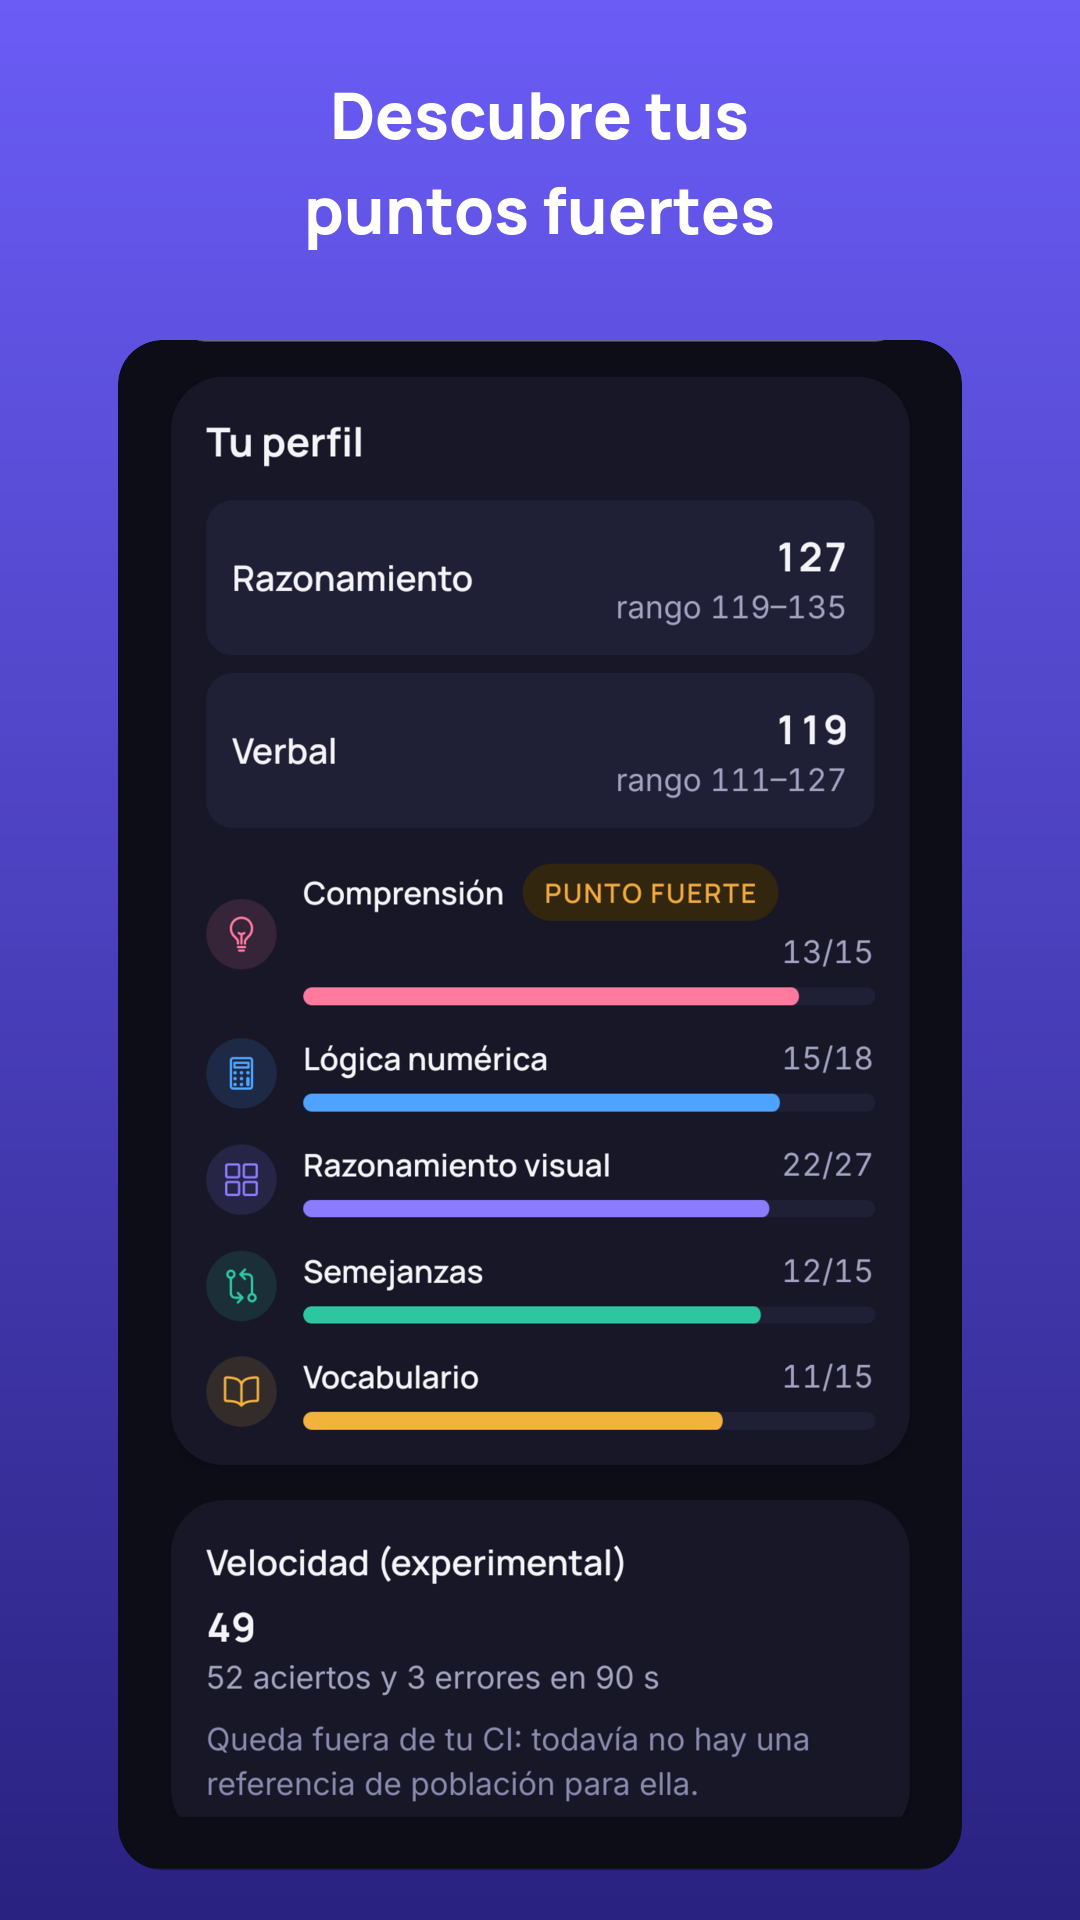
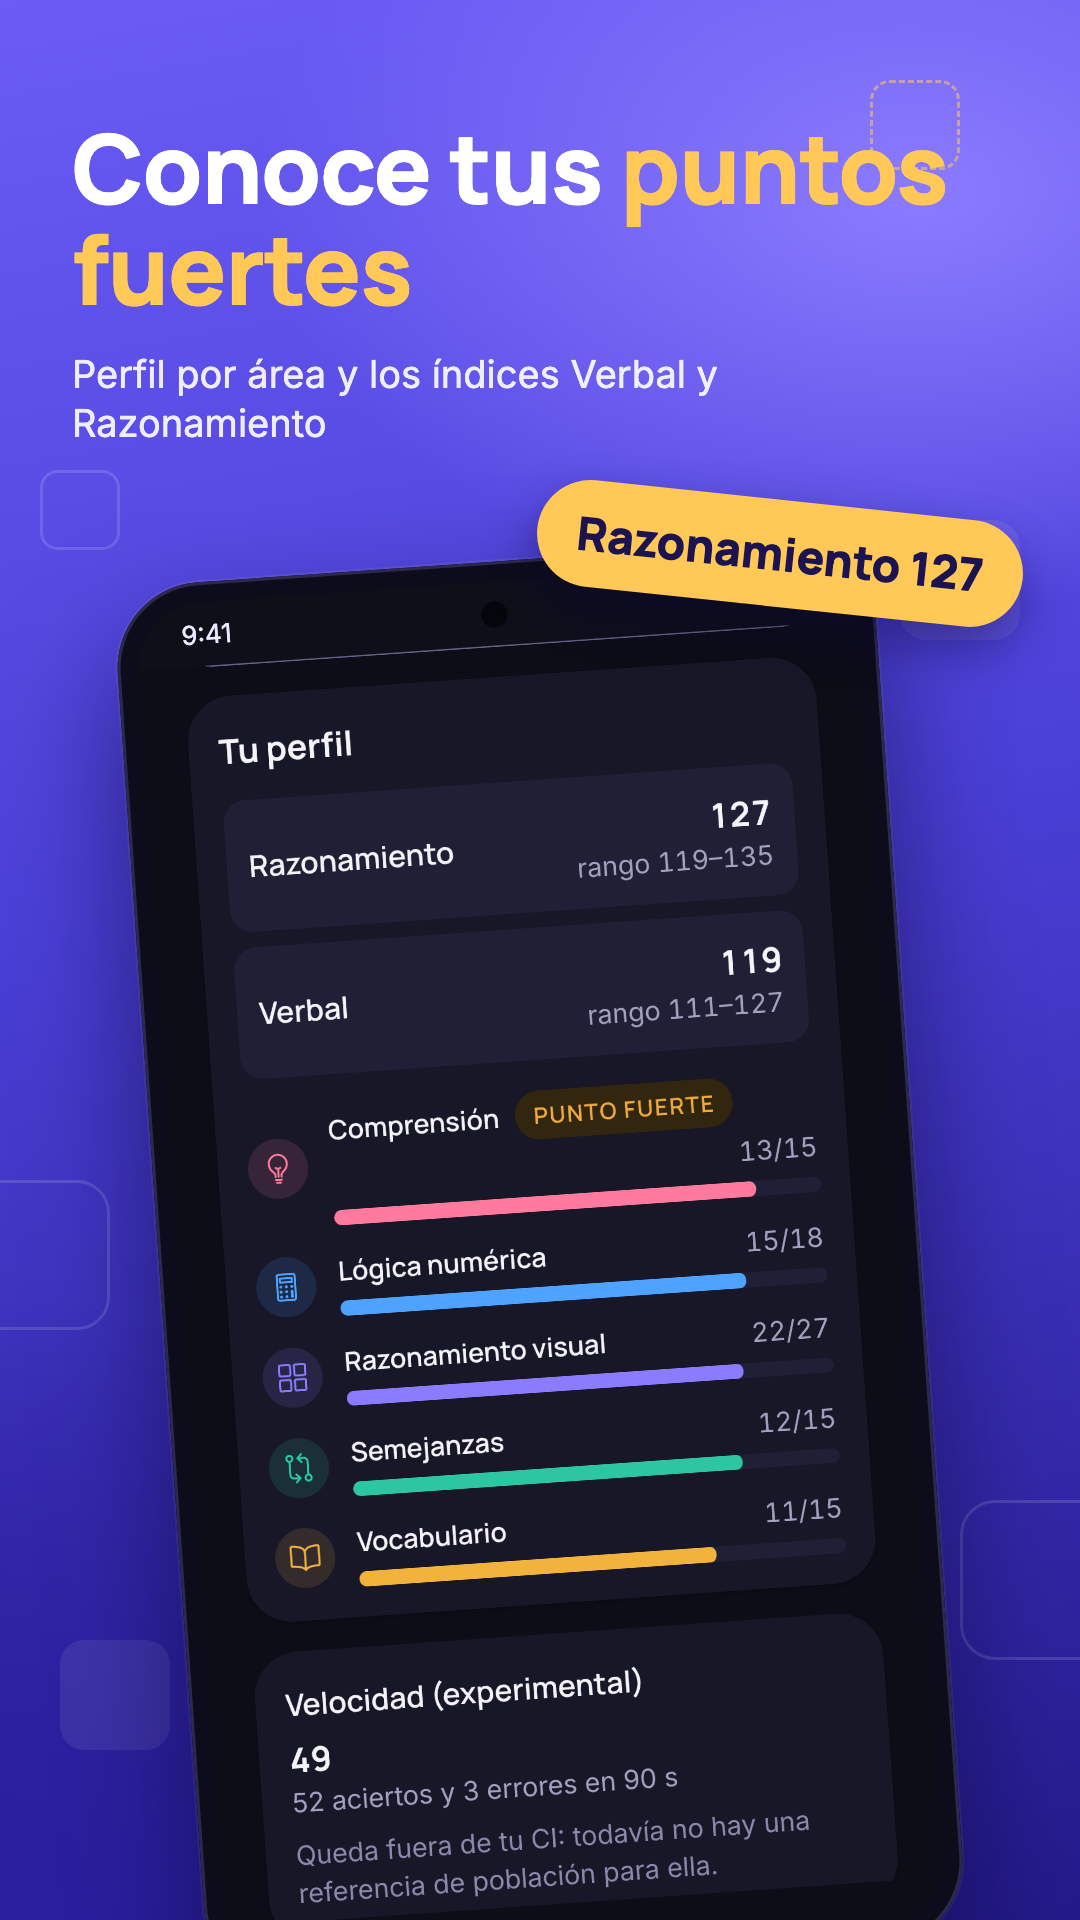
store: marketing screenshots and feature graphics in three languages
The listing images are now designed rather than captioned: a headline with
one word in the accent colour, a supporting line, the shot in a tilted
phone frame and a floating badge, on the brand gradient with the 3x3
motif. scripts/store/marketing.py lays each out in HTML and renders it in
headless Chrome with the app's fonts: 18 screenshots at 1080x1920 and a
1024x500 feature graphic per language, RGB without alpha. The copy carries
no price, ranking or duration words. compose.py, which only captioned the
shots, is gone.

diff --git a/scripts/store/marketing.py b/scripts/store/marketing.py
@@ -1,0 +1,190 @@
+"""Renders the store's marketing screenshots and feature graphic in headless Chrome.
+
+usage: marketing.py <raw-dir> <out-dir>
+
+<raw-dir>/<lang>/<n>-<name>.png are the phone shots from
+scripts/device/store_shots.py. For each language this writes, under
+<out-dir>/<play-locale>/:
+  1-result.png … 6-settings.png   1080x1920: a headline with one word in the
+                                   accent colour, a supporting line, the shot
+                                   in a tilted phone, a floating badge, on the
+                                   brand gradient with the 3x3 motif
+  feature-graphic.png              1024x500
+All RGB without alpha. Copy carries no price, ranking or duration words
+(decision D5; Play's listing rules ban "free", "best", "#1" in images).
+Fonts are the app's (Manrope, Inter) from node_modules.
+"""
+import html
+import os
+import subprocess
+import sys
+import tempfile
+
+ROOT = os.path.dirname(os.path.dirname(os.path.dirname(os.path.abspath(__file__))))
+FONTS = os.path.join(ROOT, "node_modules", "@expo-google-fonts")
+ICON = os.path.join(ROOT, "assets", "images", "brand-mark.png")
+CHROME = "/Applications/Google Chrome.app/Contents/MacOS/Google Chrome"
+LOCALES = {"pt": "pt-BR", "en": "en-US", "es": "es-419"}
+# The app's area in an A15 shot (1080x2340): below the status bar, above the banner.
+APP_TOP, APP_BOTTOM = 80, 2037
+
+# (shot, headline with *accent*, supporting line, badge, tilt in degrees)
+SLIDES = {
+    "pt": [
+        ("1-result", "Descubra seu *QI*", "Resultado completo, com a faixa provável e a curva da população", "124 · Superior", -4),
+        ("2-pattern", "Desafie seu *raciocínio*", "Matrizes visuais, lógica numérica, semelhanças e vocabulário", "5 áreas", 4),
+        ("3-profile", "Conheça seus *pontos fortes*", "Perfil por área e os índices Verbal e Raciocínio", "Raciocínio 127", -4),
+        ("4-history", "Acompanhe sua *evolução*", "Gráfico dos seus testes e o seu recorde pessoal", "Recorde 124", 4),
+        ("5-home", "*3 modos* de teste", "Rápido com 20, Normal com 40 ou Detalhado com 90 questões", "20 · 40 · 90", -4),
+        ("6-settings", "Do seu *jeito*", "Tema escuro, três idiomas e nenhum cadastro", "Sem cadastro", 4),
+    ],
+    "en": [
+        ("1-result", "Discover your *IQ*", "A full result, with its likely range and the population curve", "124 · Superior", -4),
+        ("2-pattern", "Challenge your *reasoning*", "Visual matrices, number logic, similarities and vocabulary", "5 areas", 4),
+        ("3-profile", "Find your *strengths*", "Profile by area plus the Verbal and Reasoning indices", "Reasoning 127", -4),
+        ("4-history", "Track your *progress*", "A chart of your tests and your personal record", "Record 124", 4),
+        ("5-home", "*3 test* modes", "Quick with 20, Normal with 40 or Detailed with 90 questions", "20 · 40 · 90", -4),
+        ("6-settings", "Your *way*", "Dark theme, three languages and no sign-up", "No sign-up", 4),
+    ],
+    "es": [
+        ("1-result", "Descubre tu *CI*", "Resultado completo, con su rango probable y la curva de la población", "124 · Superior", -4),
+        ("2-pattern", "Desafía tu *razonamiento*", "Matrices visuales, lógica numérica, semejanzas y vocabulario", "5 áreas", 4),
+        ("3-profile", "Conoce tus *puntos fuertes*", "Perfil por área y los índices Verbal y Razonamiento", "Razonamiento 127", -4),
+        ("4-history", "Sigue tu *evolución*", "Gráfico de tus tests y tu récord personal", "Récord 124", 4),
+        ("5-home", "*3 modos* de test", "Rápido con 20, Normal con 40 o Detallado con 90 preguntas", "20 · 40 · 90", -4),
+        ("6-settings", "A tu *manera*", "Tema oscuro, tres idiomas y sin registro", "Sin registro", 4),
+    ],
+}
+FEATURE = {
+    "pt": ("Descubra seu *QI*", "Raciocínio visual, lógica e vocabulário"),
+    "en": ("Discover your *IQ*", "Visual reasoning, logic and vocabulary"),
+    "es": ("Descubre tu *CI*", "Razonamiento visual, lógica y vocabulario"),
+}
+
+CSS = """
+@font-face { font-family: Manrope; font-weight: 800; src: url("file://%(fonts)s/manrope/800ExtraBold/Manrope_800ExtraBold.ttf"); }
+@font-face { font-family: Manrope; font-weight: 700; src: url("file://%(fonts)s/manrope/700Bold/Manrope_700Bold.ttf"); }
+@font-face { font-family: Inter; font-weight: 400; src: url("file://%(fonts)s/inter/400Regular/Inter_400Regular.ttf"); }
+* { margin: 0; padding: 0; box-sizing: border-box; }
+html, body { width: %(w)dpx; height: %(h)dpx; overflow: hidden; }
+body { position: relative; font-family: Inter; color: #fff;
+  background: radial-gradient(1100px 700px at 85%% 10%%, #8B7BFF 0%%, rgba(139,123,255,0) 60%%),
+              radial-gradient(900px 900px at 0%% 100%%, #2A1E9E 0%%, rgba(42,30,158,0) 70%%),
+              linear-gradient(170deg, #6A5CF5 0%%, #4A3FD6 45%%, #241A8A 100%%); }
+.tile { position: absolute; border-radius: 22%%; border: 3px solid rgba(255,255,255,.14); }
+.tile.fill { background: rgba(255,255,255,.08); border: none; }
+.tile.q { border: 3px dashed rgba(255,200,87,.55); }
+h1 { font-family: Manrope; font-weight: 800; letter-spacing: -1px; line-height: 1.05; }
+h1 em { font-style: normal; color: #FFC857; }
+.sub { font-family: Inter; opacity: .9; line-height: 1.3; }
+.phone { position: absolute; background: #0d0c1a;
+  box-shadow: 0 60px 120px rgba(10,6,50,.55), 0 0 0 3px #2c2a4a inset, 0 0 0 2px rgba(255,255,255,.08); }
+.screen { position: relative; overflow: hidden; background: #0f0f1a; }
+.screen img { display: block; width: 100%%; }
+.bar { display: flex; align-items: center; justify-content: space-between; font-family: Inter; color: #e9e8ff; }
+.bar .dots { display: flex; align-items: center; }
+.bar .dots i, .bar .dots b { display: block; background: #e9e8ff; opacity: .9; }
+.bar .dots b { border-radius: 50%%; }
+.punch { position: absolute; left: 50%%; border-radius: 50%%; background: #05050c; }
+.badge { position: absolute; font-family: Manrope; font-weight: 800; color: #1c1450; background: #FFC857;
+  border-radius: 999px; box-shadow: 0 24px 48px rgba(10,6,50,.4); white-space: nowrap; }
+"""
+
+
+def headline(text):
+    parts = html.escape(text).split("*")
+    return "".join(f"<em>{p}</em>" if i % 2 else p for i, p in enumerate(parts))
+
+
+def motif(width, height, cells):
+    out = []
+    for x, y, size, kind in cells:
+        out.append(f'<div class="tile {kind}" style="left:{x}px;top:{y}px;width:{size}px;height:{size}px"></div>')
+    return "".join(out)
+
+
+def phone(shot, width, left, top, tilt):
+    """A phone frame around the shot; every measure scales with the width (760 px is the reference)."""
+    k = width / 760
+    pad, inner = 20 * k, width - 40 * k
+    dot, gap = 14 * k, 10 * k
+    return (f'<div class="phone" style="left:{left}px;top:{top}px;width:{width}px;padding:{pad}px;'
+            f'border-radius:{86 * k}px;transform:rotate({tilt}deg)">'
+            f'<div class="screen" style="border-radius:{68 * k}px">'
+            f'<div class="punch" style="top:{20 * k}px;width:{26 * k}px;height:{26 * k}px;margin-left:{-13 * k}px"></div>'
+            f'<div class="bar" style="height:{64 * k}px;padding:0 {46 * k}px;font-size:{26 * k}px"><span>9:41</span>'
+            f'<span class="dots" style="gap:{gap}px"><b style="width:{dot}px;height:{dot}px"></b>'
+            f'<b style="width:{dot}px;height:{dot}px"></b>'
+            f'<i style="width:{26 * k}px;height:{dot}px;border-radius:{4 * k}px"></i></span></div>'
+            f'<img src="file://{shot}" style="width:{inner}px"></div></div>')
+
+
+def slide_html(shot, title, sub, badge, tilt):
+    cells = [(-40, 1180, 150, ""), (900, 520, 120, "fill"), (960, 1500, 160, ""), (60, 1640, 110, "fill"),
+             (870, 80, 90, "q"), (40, 470, 80, "")]
+    return (f'<html><head><style>{CSS % {"fonts": FONTS, "w": 1080, "h": 1920}}'
+            f'h1{{font-size:96px;margin:118px 72px 0}} .sub{{font-size:38px;margin:30px 72px 0;max-width:900px}}'
+            f'.badge{{font-size:46px;padding:22px 40px}}</style></head><body>'
+            f'{motif(1080, 1920, cells)}'
+            f'<h1>{headline(title)}</h1><p class="sub">{html.escape(sub)}</p>'
+            f'{phone(shot, 760, 160, 560, tilt)}'
+            # Over the phone's upper corner, where the screen is plain: the
+            # first version sat on the result's chip and percentile line.
+            f'<div class="badge" style="top:{500 if tilt < 0 else 520}px;{"right" if tilt < 0 else "left"}:56px;'
+            f'transform:rotate({tilt * -1.5}deg)">{html.escape(badge)}</div>'
+            f'</body></html>')
+
+
+def feature_html(shot, title, sub):
+    cells = [(560, -30, 110, ""), (930, 360, 90, "fill"), (520, 380, 70, "q"), (20, 400, 60, "fill")]
+    return (f'<html><head><style>{CSS % {"fonts": FONTS, "w": 1024, "h": 500}}'
+            f'h1{{font-size:78px;position:absolute;left:64px;top:150px;width:520px}}'
+            f'.sub{{font-size:28px;position:absolute;left:66px;top:330px;width:500px}}'
+            f'.icon{{position:absolute;left:64px;top:56px;width:72px;height:72px;border-radius:18px}}'
+            f'</style></head><body>{motif(1024, 500, cells)}'
+            f'<img class="icon" src="file://{ICON}">'
+            f'<h1>{headline(title)}</h1><p class="sub">{html.escape(sub)}</p>'
+            f'{phone(shot, 330, 650, 40, -6)}</body></html>')
+
+
+def render(page, width, height, out):
+    with tempfile.TemporaryDirectory() as folder:
+        source = os.path.join(folder, "page.html")
+        open(source, "w", encoding="utf-8").write(page)
+        shot = os.path.join(folder, "shot.png")
+        subprocess.run([CHROME, "--headless=new", "--disable-gpu", "--hide-scrollbars", "--force-device-scale-factor=1",
+                        "--allow-file-access-from-files", "--virtual-time-budget=4000",
+                        f"--window-size={width},{height}", f"--screenshot={shot}", f"file://{source}"],
+                       capture_output=True, check=True)
+        subprocess.run(["magick", shot, "-crop", f"{width}x{height}+0+0", "+repage", "-alpha", "off",
+                        "-define", "png:color-type=2", out], check=True)
+
+
+def crop_app_area(raw, folder):
+    out = os.path.join(folder, os.path.basename(os.path.dirname(raw)) + "-" + os.path.basename(raw))
+    subprocess.run(["magick", raw, "-crop", f"1080x{APP_BOTTOM - APP_TOP}+0+{APP_TOP}", "+repage", out], check=True)
+    return out
+
+
+def main():
+    if len(sys.argv) != 3:
+        sys.exit(__doc__)
+    raw_dir, out_dir = sys.argv[1:]
+    work = tempfile.mkdtemp(prefix="qi-marketing-")
+    count = 0
+    for lang, slides in SLIDES.items():
+        target = os.path.join(out_dir, LOCALES[lang])
+        os.makedirs(target, exist_ok=True)
+        for name, title, sub, badge, tilt in slides:
+            shot = crop_app_area(os.path.join(raw_dir, lang, f"{name}.png"), work)
+            render(slide_html(shot, title, sub, badge, tilt), 1080, 1920, os.path.join(target, f"{name}.png"))
+            count += 1
+        title, sub = FEATURE[lang]
+        shot = crop_app_area(os.path.join(raw_dir, lang, "1-result.png"), work)
+        render(feature_html(shot, title, sub), 1024, 500, os.path.join(target, "feature-graphic.png"))
+        count += 1
+    print(f"{count} images in {out_dir}")
+
+
+if __name__ == "__main__":
+    main()

diff --git a/scripts/store/README.md b/scripts/store/README.md
@@ -1,19 +1,26 @@
-# Store screenshots
+# Store images
 
-Six screenshots per language (pt-BR, en-US, es-419), 1080×1920, made from a
-preview (release) build on the Galaxy A15 so no dev-client button shows.
+Six screenshots per language (pt-BR, en-US, es-419), 1080×1920, and a
+1024×500 feature graphic per language, made from a preview (release) build
+on the Galaxy A15 so no dev-client button shows.
 
-| file | screen | pt-BR caption |
-|---|---|---|
-| `1-result` | Results revealing a Detalhado result | Seu QI estimado, com a faixa provável |
-| `2-pattern` | a pattern question | Matrizes, lógica e vocabulário |
-| `3-profile` | Results scrolled to the indices and areas | Veja seus pontos fortes |
-| `4-history` | History | Acompanhe sua evolução |
-| `5-home` | Home with the record and the mode chooser | Três modos: 20, 40 ou 90 questões |
-| `6-settings` | Settings | Tema escuro e três idiomas |
+Each screenshot is a headline with one word in the accent colour, a
+supporting line, the shot inside a tilted phone frame and a floating badge,
+on the brand gradient with the 3×3 motif (`marketing.py`, rendered in
+headless Chrome with the app's fonts).
 
-No price, ranking or duration words in the captions (decision D5; the old
-`ASO.md` plan said "Grátis" and "em 10 minutos").
+| file | screen | pt-BR headline | badge |
+|---|---|---|---|
+| `1-result` | Results revealing a Detalhado result | Descubra seu **QI** | 124 · Superior |
+| `2-pattern` | a pattern question | Desafie seu **raciocínio** | 5 áreas |
+| `3-profile` | Results scrolled to the indices and areas | Conheça seus **pontos fortes** | Raciocínio 127 |
+| `4-history` | History | Acompanhe sua **evolução** | Recorde 124 |
+| `5-home` | Home with the record and the mode chooser | **3 modos** de teste | 20 · 40 · 90 |
+| `6-settings` | Settings | Do seu **jeito** | Sem cadastro |
+
+No price, ranking or duration words (decision D5; Play's listing rules ban
+"free", "best", "#1" in images; the old `ASO.md` plan said "Grátis" and "em
+10 minutos").
 
 ## Steps
 
@@ -24,9 +31,9 @@ No price, ranking or duration words in the captions (decision D5; the old
    data stays).
 3. `python3 -I scripts/device/store_shots.py <raw>` (it sets `QI_RELEASE=1`):
    switches the language in Settings and saves the six raw shots per language.
-4. `python3 -I scripts/store/compose.py <raw> <out>`: caption on the brand
-   gradient, the app's area (no status bar, no banner) below it, RGB without
-   alpha.
+4. `python3 -I scripts/store/marketing.py <raw> <out>`: the 18 screenshots and
+   3 feature graphics, RGB without alpha; copy them into `store/screenshots/`
+   and `store/feature-graphic-<locale>.png`.
 5. `adb install -r <dev.apk>` and `python3 -I scripts/store/showcase.py restore
    <backup>`.
 

diff --git a/store/CHECKLIST.md b/store/CHECKLIST.md
@@ -87,7 +87,7 @@ O ícone é a grade 3×3 com a célula faltando, do prompt principal de
 - [x] `splash-icon.png` coerente com o ícone
 - [x] Feature graphic 1024×500 — `feature-graphic-pt-BR.png`, `-es-419`, `-en-US`,
       mais `feature-graphic-base.png` sem texto, para outros idiomas
-- [x] 6 capturas por idioma, com legendas — `store/screenshots/{pt-BR,en-US,es-419}/`, 1080×1920 RGB, do build preview no A15 (como refazer: `scripts/store/README.md`)
+- [x] 6 capturas por idioma, com título, aparelho e selo — `store/screenshots/{pt-BR,en-US,es-419}/`, 1080×1920 RGB, do build preview no A15 (como refazer: `scripts/store/README.md`); os feature graphics `feature-graphic-<locale>.png` foram refeitos no mesmo estilo
 
 O violeta do arquivo gerado saiu em `#523CE6`; os derivados foram normalizados
 para o `#5B4FE9` da marca, senão o `icon.png` e o fundo do ícone adaptativo

diff --git a/store/ASO.md b/store/ASO.md
@@ -116,11 +116,11 @@ Ordem proposital: a captura 1 mostra a **recompensa**, não a tela inicial. O
 usuário decide instalar pelo que vai ganhar.
 
 > As capturas finais estão em `store/screenshots/` (2026-10-29), tiradas do
-> build preview no Galaxy A15 e legendadas por `scripts/store/compose.py`. A
+> build preview no Galaxy A15 e montadas por `scripts/store/marketing.py`. A
 > ordem e as legendas mudaram em relação ao roteiro acima: sem "Grátis" (a
 > Play pede nada de promoção na imagem, decisão D5), sem "em 10 minutos" (não
 > prometemos duração antes de medir) e sem "30 questões" (são três modos: 20,
-> 40 e 90). A tabela de legendas está em `scripts/store/README.md`.
+> 40 e 90). Títulos e selos de cada uma estão em `scripts/store/README.md`.
 
 ---
 
